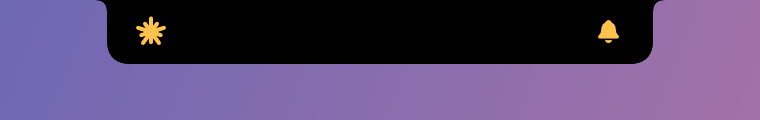
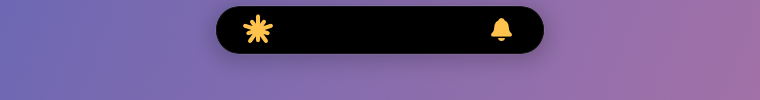
Kapsula uslubi: notch'siz ekranda iPhone'dagidek Dynamic Island
Tashqi monitorda orolcha endi tepaga yopishgan notch emas, menyu panel
o'rtasida suzib turgan kapsula: bo'sh holatda ixcham, musiqa/Claude
paytida kengayadi, ochilganda yumaloq burchakli kartaga aylanadi.
MacBook notch'ida avvalgi notch uslubi qoladi. Menyuda «Notch koʻrinishi»
bilan eski ko'rinishga qaytish mumkin. Prujina biroz sakraydigan qilindi.

Changed region(s): [[0.1211, 0.0, 0.8776, 0.57]]

diff --git a/Sources/IslandViews.swift b/Sources/IslandViews.swift
@@ -11,7 +11,8 @@ enum Palette {
     static let tertiary = Color.white.opacity(0.34)
 }
 
-let islandSpring = Animation.spring(response: 0.42, dampingFraction: 0.8)
+/// Biroz "sakraydigan" prujina — iPhone'dagi Dynamic Island hissi.
+let islandSpring = Animation.spring(response: 0.46, dampingFraction: 0.76)
 
 struct BlurFade: ViewModifier {
     let active: Bool
@@ -48,7 +49,7 @@ struct IslandRootView: View {
         let mode = model.mode
         let g = model.geometry
         let size = g.frame(mode)
-        let shape = NotchShape(top: g.topRadius(mode), bottom: g.bottomRadius(mode))
+        let shape = g.shape(mode)
         VStack(spacing: 0) {
             ZStack(alignment: .top) {
                 Color.black
@@ -56,12 +57,18 @@ struct IslandRootView: View {
             }
             .frame(width: size.width, height: size.height, alignment: .top)
             .clipShape(shape)
+            .overlay(
+                // Kapsula qora fonda ham ko'rinib tursin — juda nozik chegara.
+                shape.stroke(Color.white.opacity(g.isPill ? 0.09 : 0), lineWidth: 0.75)
+            )
             .background(
                 shape.fill(Color.black)
-                    .shadow(color: .black.opacity(mode == .expanded ? 0.5 : (mode == .peek ? 0.3 : 0)), radius: 18, x: 0, y: 8)
+                    .shadow(color: .black.opacity(mode == .expanded ? 0.5 : (mode == .peek ? 0.3 : (g.isPill ? 0.25 : 0))),
+                            radius: mode == .idle || mode == .live ? 6 : 18, x: 0, y: mode == .idle || mode == .live ? 2 : 8)
             )
             .contentShape(shape)
             .onTapGesture { if model.mode != .expanded { model.expand() } }
+            .padding(.top, g.topInset)
             Spacer(minLength: 0)
         }
         .frame(maxWidth: .infinity, maxHeight: .infinity, alignment: .top)
@@ -96,9 +103,9 @@ struct LiveStrip: View {
     var body: some View {
         let h = g.m.notch.height
         HStack(spacing: 0) {
-            ZStack { left }.frame(width: g.slot, height: h)
-            Color.clear.frame(width: g.m.notch.width, height: h)
-            ZStack { right }.frame(width: g.slot, height: h)
+            ZStack { left }.frame(width: g.slot, height: h).offset(x: g.isPill ? 3 : 0)
+            Color.clear.frame(width: g.liveGap, height: h)
+            ZStack { right }.frame(width: g.slot, height: h).offset(x: g.isPill ? -3 : 0)
         }
         .frame(width: g.body(.live).width, height: h)
         .animation(islandSpring, value: music.isPlaying)
@@ -107,7 +114,8 @@ struct LiveStrip: View {
 
     @ViewBuilder private var left: some View {
         if music.isPlaying {
-            ArtworkView(image: music.artwork, size: g.m.notch.height - (g.m.hasNotch ? 11 : 7), corner: g.m.hasNotch ? 6 : 4.5)
+            let size = g.m.notch.height - (g.isPill ? 7 : (g.m.hasNotch ? 11 : 7))
+            ArtworkView(image: music.artwork, size: size, corner: g.isPill ? size / 2 : (g.m.hasNotch ? 6 : 4.5))
                 .transition(.blurFade)
         } else if let s = claude.primary {
             ClaudeGlyph(state: s.state).frame(width: 17, height: 17).transition(.blurFade)
@@ -162,7 +170,7 @@ struct PeekView: View {
     var body: some View {
         let size = g.body(.peek)
         VStack(spacing: 0) {
-            Color.clear.frame(height: g.m.notch.height)
+            if !g.isPill { Color.clear.frame(height: g.m.notch.height) }
             HStack(spacing: 11) {
                 ZStack {
                     Circle().fill(tint.opacity(0.18))
@@ -185,8 +193,8 @@ struct PeekView: View {
                 }
                 Spacer(minLength: 0)
             }
-            .padding(.horizontal, 22)
-            .frame(height: IslandGeometry.peekContent - 8)
+            .padding(.horizontal, g.isPill ? 16 : 22)
+            .frame(height: g.isPill ? size.height : IslandGeometry.peekContent - 8)
         }
         .frame(width: size.width, height: size.height, alignment: .top)
     }
@@ -218,7 +226,8 @@ struct ExpandedView: View {
     @ObservedObject var calendar: CalendarModel
 
     var body: some View {
-        let nH = g.m.notch.height
+        let header = g.headerHeight
+        let total = g.body(.expanded).height
         VStack(spacing: 0) {
             HStack(spacing: 0) {
                 TimelineView(.everyMinute) { tl in
@@ -226,7 +235,7 @@ struct ExpandedView: View {
                         .font(.system(size: 12, weight: .semibold))
                         .foregroundStyle(Palette.text.opacity(0.9))
                 }
-                Spacer(minLength: g.m.notch.width + 24)
+                Spacer(minLength: g.isPill ? 20 : g.m.notch.width + 24)
                 HStack(spacing: 8) {
                     if claude.activeCount > 0 {
                         HStack(spacing: 5) {
@@ -245,8 +254,9 @@ struct ExpandedView: View {
                     .buttonStyle(PressStyle())
                 }
             }
-            .padding(.horizontal, 24)
-            .frame(height: nH)
+            .padding(.horizontal, g.isPill ? 30 : 24)
+            .padding(.top, g.isPill ? 6 : 0)
+            .frame(height: header)
 
             HStack(alignment: .top, spacing: 18) {
                 MusicCard(music: music).frame(width: 292, alignment: .leading)
@@ -257,11 +267,11 @@ struct ExpandedView: View {
                 }
                 .frame(maxWidth: .infinity, alignment: .topLeading)
             }
-            .padding(.horizontal, 26)
-            .padding(.top, 12)
-            .frame(height: IslandGeometry.expandedContent, alignment: .top)
+            .padding(.horizontal, g.isPill ? 28 : 26)
+            .padding(.top, g.isPill ? 6 : 12)
+            .frame(height: total - header, alignment: .top)
         }
-        .frame(width: IslandGeometry.expandedWidth, height: nH + IslandGeometry.expandedContent, alignment: .top)
+        .frame(width: IslandGeometry.expandedWidth, height: total, alignment: .top)
     }
 }
 

diff --git a/Sources/Geometry.swift b/Sources/Geometry.swift
@@ -1,23 +1,36 @@
 import AppKit
 import SwiftUI
 
-/// Ekran va notch o'lchamlari.
+/// Ko'rinish uslubi: notch'ga yopishgan yoki iPhone'dagidek alohida kapsula.
+enum IslandStyle: Equatable {
+    case notch, pill
+}
+
+/// Ekran va orolcha o'lchamlari.
 struct ScreenMetrics: Equatable {
+    /// Notch uslubida — jismoniy (yoki soxta) notch; kapsula uslubida — bo'sh turgandagi kapsula.
     var notch: CGSize
     var hasNotch: Bool
     var frame: CGRect
+    var menuBar: CGFloat
+    var style: IslandStyle
 
-    static func make(for screen: NSScreen) -> ScreenMetrics {
+    static func make(for screen: NSScreen, preferNotchLook: Bool) -> ScreenMetrics {
         let f = screen.frame
         if screen.safeAreaInsets.top > 0,
            let l = screen.auxiliaryTopLeftArea, let r = screen.auxiliaryTopRightArea {
             let w = max(120, f.width - l.width - r.width)
-            return ScreenMetrics(notch: CGSize(width: w, height: screen.safeAreaInsets.top), hasNotch: true, frame: f)
+            let h = screen.safeAreaInsets.top
+            return ScreenMetrics(notch: CGSize(width: w, height: h), hasNotch: true, frame: f, menuBar: h, style: .notch)
         }
-        // Notch yo'q ekran (tashqi monitor) — menyu panel balandligida soxta notch.
         var bar = f.maxY - screen.visibleFrame.maxY
         if bar < 18 || bar > 44 { bar = 24 }
-        return ScreenMetrics(notch: CGSize(width: 168, height: bar), hasNotch: false, frame: f)
+        if preferNotchLook {
+            return ScreenMetrics(notch: CGSize(width: 168, height: bar), hasNotch: false, frame: f, menuBar: bar, style: .notch)
+        }
+        // Notch yo'q ekran: menyu panel ichida, o'rtada suzib turgan kapsula.
+        let h = min(28, max(20, bar - 6))
+        return ScreenMetrics(notch: CGSize(width: 108, height: h), hasNotch: false, frame: f, menuBar: bar, style: .pill)
     }
 }
 
@@ -32,20 +45,36 @@ struct IslandGeometry {
     static let expandedContent: CGFloat = 206
     static let peekContent: CGFloat = 50
 
-    var slot: CGFloat { m.notch.height + 12 }
+    var style: IslandStyle { m.style }
+    var isPill: Bool { m.style == .pill }
+
+    /// Kapsula ekran tepasidan qancha pastda turadi (menyu panel o'rtasida).
+    var topInset: CGFloat { isPill ? max(2, ((m.menuBar - m.notch.height) / 2).rounded()) : 0 }
+
+    var slot: CGFloat { isPill ? m.notch.height + 12 : m.notch.height + 12 }
+
+    /// Jonli holatda chap va o'ng bo'laklar orasidagi bo'shliq (notch o'rni).
+    var liveGap: CGFloat { isPill ? 92 : m.notch.width }
+
+    /// Ochiq holatning yuqori qatori (sana) balandligi.
+    var headerHeight: CGFloat { isPill ? 38 : m.notch.height }
 
     /// Tana o'lchami (yuqoridagi "quloqlar"siz).
     func body(_ mode: IslandMode) -> CGSize {
         let n = m.notch
         switch mode {
         case .idle: return n
-        case .live: return CGSize(width: n.width + 2 * slot, height: n.height)
-        case .peek: return CGSize(width: max(n.width + 2 * slot, 340), height: n.height + Self.peekContent)
-        case .expanded: return CGSize(width: Self.expandedWidth, height: n.height + Self.expandedContent)
+        case .live: return CGSize(width: liveGap + 2 * slot, height: n.height)
+        case .peek:
+            return isPill ? CGSize(width: 340, height: 60)
+                          : CGSize(width: max(n.width + 2 * slot, 340), height: n.height + Self.peekContent)
+        case .expanded:
+            return CGSize(width: Self.expandedWidth, height: headerHeight + Self.expandedContent - (isPill ? 10 : 0))
         }
     }
 
     func topRadius(_ mode: IslandMode) -> CGFloat {
+        if isPill { return 0 }
         switch mode {
         case .idle, .live: return 6
         case .peek: return 10
@@ -54,6 +83,13 @@ struct IslandGeometry {
     }
 
     func bottomRadius(_ mode: IslandMode) -> CGFloat {
+        if isPill {
+            switch mode {
+            case .idle, .live: return m.notch.height / 2
+            case .peek: return 30
+            case .expanded: return 38
+            }
+        }
         switch mode {
         case .idle: return m.hasNotch ? 10 : 9
         case .live: return 12
@@ -66,6 +102,30 @@ struct IslandGeometry {
     func frame(_ mode: IslandMode) -> CGSize {
         let b = body(mode)
         return CGSize(width: b.width + 2 * topRadius(mode), height: b.height)
+    }
+
+    func shape(_ mode: IslandMode) -> IslandShape {
+        IslandShape(pill: isPill, top: topRadius(mode), bottom: bottomRadius(mode))
+    }
+}
+
+/// Ikkala uslub uchun bitta shakl — holatlar orasida radiuslar silliq animatsiya bo'ladi.
+struct IslandShape: Shape {
+    var pill: Bool
+    var top: CGFloat
+    var bottom: CGFloat
+
+    var animatableData: AnimatablePair<CGFloat, CGFloat> {
+        get { AnimatablePair(top, bottom) }
+        set { top = newValue.first; bottom = newValue.second }
+    }
+
+    func path(in rect: CGRect) -> Path {
+        if pill {
+            let r = min(bottom, rect.height / 2, rect.width / 2)
+            return RoundedRectangle(cornerRadius: r, style: .continuous).path(in: rect)
+        }
+        return NotchShape(top: top, bottom: bottom).path(in: rect)
     }
 }
 

diff --git a/Sources/IslandController.swift b/Sources/IslandController.swift
@@ -58,7 +58,8 @@ final class IslandController {
     private let defaults = UserDefaults.standard
 
     init() {
-        model = IslandModel(metrics: ScreenMetrics.make(for: NSScreen.screens.first ?? NSScreen.main!))
+        model = IslandModel(metrics: ScreenMetrics.make(for: NSScreen.screens.first ?? NSScreen.main!,
+                                                        preferNotchLook: UserDefaults.standard.bool(forKey: "notchLook")))
     }
 
     func start() {
@@ -109,7 +110,7 @@ final class IslandController {
 
     private func place() {
         let screen = chooseScreen()
-        let m = ScreenMetrics.make(for: screen)
+        let m = ScreenMetrics.make(for: screen, preferNotchLook: defaults.bool(forKey: "notchLook"))
         if m != model.metrics { model.metrics = m }
         let f = screen.frame
         let w = Self.windowSize.width, h = Self.windowSize.height
@@ -123,8 +124,9 @@ final class IslandController {
         let s = model.geometry.frame(mode)
         let f = model.metrics.frame
         let pad: CGFloat = mode == .expanded ? 14 : 6
-        return NSRect(x: f.midX - s.width / 2 - pad, y: f.maxY - s.height - pad,
-                      width: s.width + 2 * pad, height: s.height + pad + 2)
+        let inset = model.geometry.topInset
+        return NSRect(x: f.midX - s.width / 2 - pad, y: f.maxY - inset - s.height - pad,
+                      width: s.width + 2 * pad, height: inset + s.height + pad + 2)
     }
 
     private func trackMouse() {
@@ -171,6 +173,13 @@ final class IslandController {
             let on = defaults.bool(forKey: "preferMainScreen")
             menu.addItem(BlockMenuItem("Asosiy ekranda koʻrsatish", checked: on) { [weak self] in
                 self?.defaults.set(!on, forKey: "preferMainScreen")
+                self?.place()
+            })
+        }
+        if !model.metrics.hasNotch {
+            let notchLook = defaults.bool(forKey: "notchLook")
+            menu.addItem(BlockMenuItem("Notch koʻrinishi (kapsula oʻrniga)", checked: notchLook) { [weak self] in
+                self?.defaults.set(!notchLook, forKey: "notchLook")
                 self?.place()
             })
         }

diff --git a/Sources/Snapshot.swift b/Sources/Snapshot.swift
@@ -16,8 +16,11 @@ enum Snapshot {
         let backdrop = LinearGradient(colors: [Color(red: 0.32, green: 0.38, blue: 0.72), Color(red: 0.78, green: 0.46, blue: 0.62)],
                                       startPoint: .topLeading, endPoint: .bottomTrailing)
         for notch in [true, false] {
-            let metrics = ScreenMetrics(notch: notch ? CGSize(width: 185, height: 32) : CGSize(width: 168, height: 24),
-                                        hasNotch: notch, frame: CGRect(x: 0, y: 0, width: 1512, height: 982))
+            let metrics = notch
+                ? ScreenMetrics(notch: CGSize(width: 185, height: 32), hasNotch: true,
+                                frame: CGRect(x: 0, y: 0, width: 1512, height: 982), menuBar: 32, style: .notch)
+                : ScreenMetrics(notch: CGSize(width: 108, height: 24), hasNotch: false,
+                                frame: CGRect(x: 0, y: 0, width: 1920, height: 1080), menuBar: 30, style: .pill)
             for mode in ["idle", "music", "live", "claude", "peek", "expanded", "empty"] {
                 let model = IslandModel(metrics: metrics)
                 if mode != "empty" { model.demo(mode) }

diff --git a/README.md b/README.md
@@ -1,7 +1,7 @@
 # Orolcha
 
-**Mac uchun Dynamic Island** — notch atrofida musiqa, Claude Code holati va kalendar.
-Notch'siz ekranda (tashqi monitor) menyu panel o'rtasida soxta notch bo'lib turadi.
+**Mac uchun Dynamic Island** — musiqa, Claude Code holati va kalendar.
+Tashqi monitorda iPhone'dagidek menyu panel o'rtasida suzib turgan kapsula, MacBook'da esa notch'ning o'zidan o'sib chiqadi.
 
 [English below](#english)
 
@@ -10,6 +10,8 @@ Notch'siz ekranda (tashqi monitor) menyu panel o'rtasida soxta notch bo'lib tura
 | Musiqa chalinmoqda | Claude ishlamoqda / javob kutmoqda | Qisqa xabar |
 |---|---|---|
 | <img src="docs/music.png" width="260"> | <img src="docs/claude.png" width="260"> | <img src="docs/peek.png" width="260"> |
+
+MacBook notch'ida: <img src="docs/notch.png" width="300" alt="Notch uslubi">. Tashqi monitorda ham notch ko'rinishini xohlasangiz: menyu → «Notch koʻrinishi».
 
 ## Nimalar bor
 
@@ -70,7 +72,7 @@ MIT — [LICENSE](LICENSE).
 
 ## English
 
-**Orolcha** ("little island" in Uzbek) is a Dynamic Island for the Mac. It lives around the notch, or as a pill in the menu bar on displays without one, and shows:
+**Orolcha** ("little island" in Uzbek) is a Dynamic Island for the Mac. On external displays it floats as an iPhone-style pill in the middle of the menu bar; on a MacBook it grows out of the notch itself. It shows:
 
 - **Now playing** from any player (Yandex Music, Spotify, Apple Music, browsers, Telegram voice notes): artwork, an animated waveform tinted from the cover, controls and a scrubbable progress bar.
 - **Claude Code sessions** via hooks: working (current tool or file and elapsed time), waiting for permission, finished. The island pops open briefly when a session finishes or needs you. Clicking a row brings its app (Claude, Terminal, Warp, VS Code…) forward.
